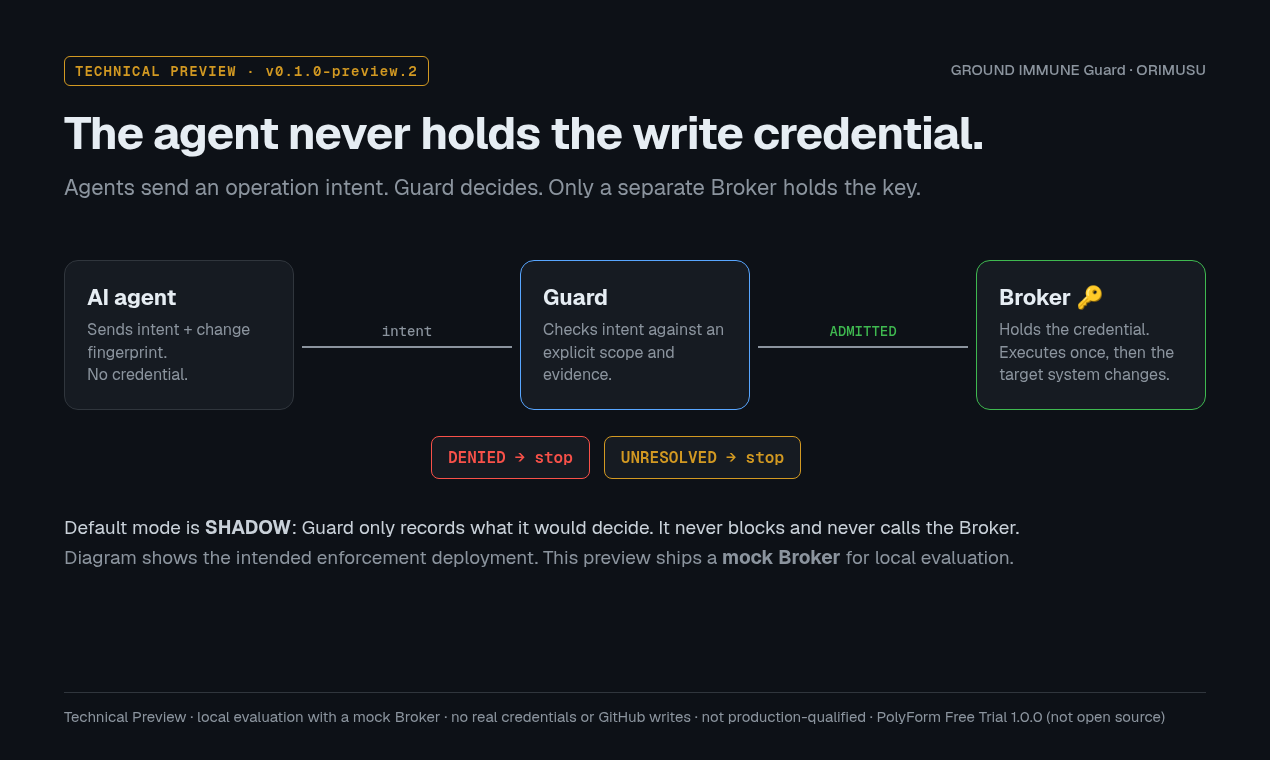
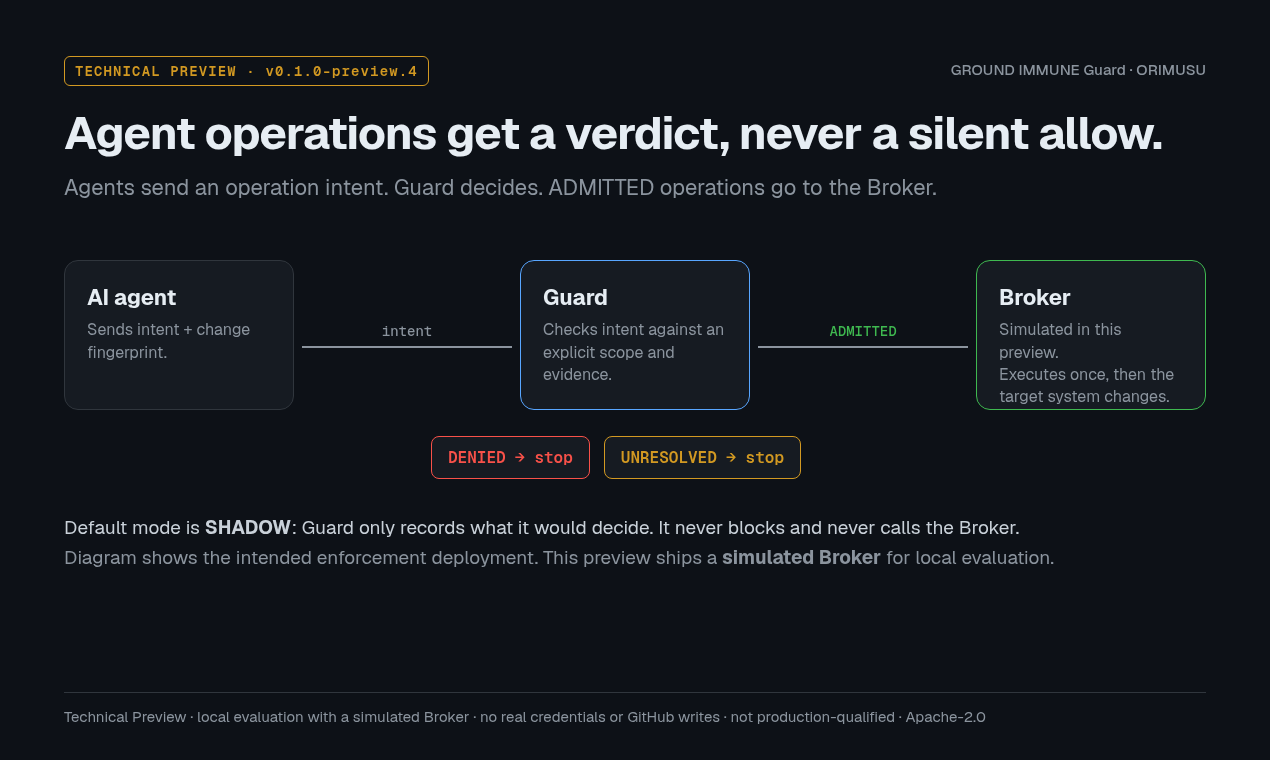
Release v0.1.0-preview.4: fix protect on Windows (directory fsync EPERM)
- README/QUICKSTART: install and SHA-256 check for 0.1.0-preview.4;
  verified on Linux, Windows 11 and macOS (Apple Silicon).
- CHANGELOG: preview.4 entry (Windows evidence-store fix, GUARD_DEBUG=1,
  regression test) and the published preview.3 entry with its known issue.
- release-manifest.json, SHA256SUMS, sbom.json (preview.4 inventory),
  validation-preview.4.json.
- docs: VERSIONING, VERIFICATION; ROADMAP and issue templates.
- docs/assets: architecture diagram and terminal GIF show preview.4.

diff --git a/README.md b/README.md
@@ -18,7 +18,7 @@ Guard checks an agent's proposed operation against an explicit scope and require
 
 In explicitly enabled Limited Blocking, only an **ADMITTED** operation is handed to a separate **Broker**. The agent must not own the write credential or configure its own authority. This preview ships a *simulated* Broker, so it does not demonstrate physical credential isolation.
 
-![Agent sends intent to Guard; only the Broker holds the credential](docs/assets/architecture.png)
+![Agent sends an operation intent to Guard; ADMITTED operations go to the Broker (simulated in this preview)](docs/assets/architecture.png)
 
 ```text
 AI Agent / Automation → operation intent → Guard
@@ -44,7 +44,7 @@ The diagram shows explicitly enabled enforcement. In the default **SHADOW** mode
 - Not a dedicated Broker host, not a credential-provisioning service, and not a real GitHub write executor. No real credentials are used.
 - Not a claim of physical or OS-level credential isolation. In-process binding is not process or OS isolation.
 - **Full IMMUNE is not in this repository.** Recovery, Governance and Adaptive layers of the broader unpublished system are not included, not activated by this preview, and not implied by installing the package.
-- This repository is documentation, examples, packaging scripts and release records. The installable package ships a readable ESM build in `dist/`. The original TypeScript sources used to produce that build are not in this repository.
+- This repository is documentation, examples, packaging scripts and release records. The installable package (release tarball) ships a readable ESM build in `dist/` together with the TypeScript sources of the Guard surface and admission kernel used to build it; those sources are not in this git repository.
 
 > **Technical Preview — read before use.** For local evaluation only. Ships a *simulated* Broker: no Broker host, no real credentials, no real GitHub write executor; not production-qualified. See [Limitations](docs/LIMITATIONS.md).
 
@@ -52,18 +52,20 @@ The diagram shows explicitly enabled enforcement. In the default **SHADOW** mode
 
 ## Try it (no account, no credential, no network after download)
 
-Requires Node.js 22 or later and npm (tested on Node 22.23.4 / npm 10.9.9 and Node 24.22.1 / npm 11.21.1, Linux). Run it in a **new, empty directory**.
+Requires Node.js 22 or later and npm. Verified on Linux (Node 22.23.4 / npm 10.9.9 and Node 24.22.1 / npm 11.21.1), Windows 11 (Node 24.14.0) and macOS (Apple Silicon, macOS 26.6.2, Node 24.15.0 / npm 11.12.1). Run it in a **new, empty directory**.
 
-The commands below are for the forthcoming **0.1.0-preview.3** package (same runtime intent as preview.2, with this repository's Apache-2.0 docs and license). Replace the placeholders before publication.
+The current package is **0.1.0-preview.4** (GitHub prerelease `v0.1.0-preview.4`). If you are on Windows and installed preview.3, upgrade: preview.3 returns `UNRESOLVED` / `GUARD_UNAVAILABLE` for every `guard protect` there (see [Changelog](CHANGELOG.md)).
 
 ```sh
 mkdir guard-try && cd guard-try
 npm init -y >/dev/null    # makes this directory the npm project root (see note below)
-curl -LO https://github.com/ORIMUSU/ground-immune-guard/releases/download/v0.1.0-preview.3/ground-immune-guard-0.1.0-preview.3.tgz
-# Compare with SHA256SUMS / the release notes. macOS: shasum -a 256 …
-echo "8b8e0ce3a546f623be88e69d857402d4c7cc2e68596b51cffd58e021c975067d  ground-immune-guard-0.1.0-preview.3.tgz" | sha256sum -c -
-npm install --offline --ignore-scripts ./ground-immune-guard-0.1.0-preview.3.tgz
+curl -LO https://github.com/ORIMUSU/ground-immune-guard/releases/download/v0.1.0-preview.4/ground-immune-guard-0.1.0-preview.4.tgz
+echo "6bdc758c1059b2e530393e9f9a61706bbb097410ab88afb80adde55668e88168  ground-immune-guard-0.1.0-preview.4.tgz" | sha256sum -c -
+# macOS: same line with "shasum -a 256 -c -" instead of "sha256sum -c -"
+# Windows PowerShell: (Get-FileHash -Algorithm SHA256 .\ground-immune-guard-0.1.0-preview.4.tgz).Hash
+npm install --offline --ignore-scripts ./ground-immune-guard-0.1.0-preview.4.tgz
 
+./node_modules/.bin/guard --version                      # 0.1.0-preview.4
 ./node_modules/.bin/guard init ./blocking --limited      # local simulated Broker, no credential
 ./node_modules/.bin/guard protect ./blocking allowed     # ADMITTED  -> executes once           (exit 0)
 ./node_modules/.bin/guard protect ./blocking allowed     # replay    -> UNRESOLVED / DECISION_REUSED (exit 4)
@@ -72,11 +74,11 @@ npm install --offline --ignore-scripts ./ground-immune-guard-0.1.0-preview.3.tgz
 ./node_modules/.bin/guard verify ./blocking
 ```
 
[1 lines of base64/hex data omitted]
+On Windows, use `.\node_modules\.bin\guard.cmd` instead of `./node_modules/.bin/guard`. If a command fails unexpectedly, run it again with the environment variable `GUARD_DEBUG=1`: the underlying error (`code`, `syscall`, redacted message) is written to stderr; stdout, verdicts and exit codes do not change.
 
 Then try the default observe-only mode: `./node_modules/.bin/guard init ./shadow` and the same `protect` calls against `./shadow` — the decisions are reported with `outcome: OBSERVED`, nothing executes, and every verdict exits 0 (add `--fail-on-verdict` to get 3/4 in SHADOW, e.g. for a CI check). Output formats, `status` and exit codes are explained in [docs/EXPLAIN.md](docs/EXPLAIN.md).
 
-To see post-admission substitution stopped by preview Broker binding, copy `examples/tamper-after-approval.mjs` into the same project and run `node tamper-after-approval.mjs` (LIMITED_BLOCKING only; default SHADOW does not exercise this path).
+To see post-admission substitution stopped by preview Broker binding, run `node node_modules/@ground/immune-guard/examples/tamper-after-approval.mjs` in the same project (LIMITED_BLOCKING only; default SHADOW does not exercise this path).
 
 > **Why `npm init -y`?** Without a `package.json` in the current directory, npm installs into the nearest parent directory that has a `package.json` or `node_modules`. `./node_modules/.bin/guard` is then missing (exit 127). To add Guard to an existing project instead, run the `npm install` line from that project's root.
 
@@ -115,13 +117,13 @@ This Technical Preview is licensed under the **Apache License, Version 2.0**. Se
 - You may use, modify, and redistribute the Work under the terms of Apache-2.0, including for commercial purposes.
 - A patent license is included, subject to the patent-retaliation clause in the License.
 - There is no evaluation-period limit and no "not open source" restriction in this license.
-- This repository does not currently include the original TypeScript sources of the installable package; the package ships readable ESM in `dist/` inside the release tarball. Third-party components remain under their own terms; see `THIRD-PARTY-NOTICES.txt`.
+- This git repository does not include the TypeScript sources of the installable package; the release tarball contains them alongside the readable ESM build in `dist/`. Third-party components remain under their own terms; see `THIRD-PARTY-NOTICES.txt`.
 
 The approved preview distribution route is a public GitHub repository plus a GitHub Release containing the frozen tarball. npm registry publication is not part of this preview. Integrity is published through `SHA256SUMS` and `sbom.json`; the preview is **not cryptographically signed or attested**.
 
 ## What this repository contains
 
-This repository contains reviewed documentation, examples, packaging scripts and community files. Installable tarballs are attached to GitHub Releases (see `https://github.com/ORIMUSU/ground-immune-guard/releases` once published) and their SHA-256 digests are listed in `SHA256SUMS`. It contains no history or source from the private development repository, no private host evidence and no deployment credentials.
+This repository contains reviewed documentation, examples, packaging scripts and community files. Installable tarballs are attached to [GitHub Releases](https://github.com/ORIMUSU/ground-immune-guard/releases) and their SHA-256 digests are listed in `SHA256SUMS`. It contains no history or source from the private development repository, no private host evidence and no deployment credentials.
 
 See [Verification](docs/VERIFICATION.md), [Architecture](docs/ARCHITECTURE.md), [Changelog](CHANGELOG.md), `release-manifest.json`, `SHA256SUMS` and `sbom.json`.
 

diff --git a/CHANGELOG.md b/CHANGELOG.md
@@ -1,17 +1,25 @@
 # Changelog
 
-## Unreleased — 0.1.0-preview.3 (planned)
+## 0.1.0-preview.4 — 2026-11-12 (Technical Preview, GitHub prerelease)
 
-This repository is being prepared as a clean, Apache-2.0 public tree. The installable preview.3 tarball is **not produced in this tree**; it is a separate packaging task. Until preview.3 exists, do not treat the commands in the README as a published download.
[1 lines of base64/hex data omitted]
 
-Intended repository changes (this tree):
+- Windows: fix `guard protect` returning `UNRESOLVED` / `GUARD_UNAVAILABLE` (exit 4) for every operation. After the atomic rename of an evidence record, the file evidence store flushed the evidence directory by opening it and calling `fsync`. Windows cannot flush a directory handle (`EPERM`, or `EISDIR` on open), so every `protect` against a file store failed after the ADMISSION record had already been written; the simulated Broker never ran. On `win32` the directory flush is now skipped when it fails with `EISDIR`/`EPERM`/`EACCES`/`EINVAL`; the rename remains the commit point. Other platforms are unchanged and still fail closed on any directory-flush error. Evidence written by preview.3 on Windows still verifies but holds ADMISSION records without DISPATCH/RESULT; start a fresh `guard init` directory.
+- CLI: `GUARD_DEBUG=1` writes the underlying evidence-store or CLI error (`code`, `syscall`, redacted message) to stderr as a `guard debug:` line. Paths are redacted. stdout, verdicts and exit codes are unchanged; without the variable nothing extra is printed.
+- Regression test: `packaging/test-windows-evidence.mjs` (in the tarball) simulates the Windows directory-handle errors, checks the README sequence (exit codes 0/4/3/4, `verify` `count: 5`, SHADOW `OBSERVED`) and checks that non-Windows platforms still fail closed.
+- Verified with these exact tarball bytes on Linux x86_64 (Node 22.23.4 and 24.22.1), Windows 11 (Node 24.14.0) and macOS 26.6.2 on Apple Silicon (Node 24.15.0): SHA-256 match, `guard --version` 0.1.0-preview.4, README CLI exits 0/4/3/4, `verify` count 5, SHADOW `OBSERVED`, regression test all checks passed, both examples matched. See `validation-preview.4.json`.
+- Public API, decisions, other platforms' behaviour and examples are otherwise unchanged from preview.3.
+- Known cosmetic leftovers inside the tarball (not runtime): the bundled terminal GIF and architecture badge still show preview.3, and the bundled `CHANGELOG.md` / `RELEASE-NOTES.md` / `README.md` were frozen before publication and describe this version as a local candidate. The repository copies of the GIF and diagram show preview.4.
 
-- License for repository materials: Apache License 2.0 (see LICENSE and NOTICE).
-- Community files: CONTRIBUTING.md (Discussions/Issues first, DCO), CODE_OF_CONDUCT.md, SECURITY.md, issue and pull-request templates, ROADMAP.md.
-- Documentation: "What this is / is not", Apache-2.0 wording, and a local example of post-admission substitution (`examples/tamper-after-approval.mjs`) that exercises preview Broker binding.
-- History: a new public git history. Author and committer use a GitHub noreply address.
+## 0.1.0-preview.3 — 2026-11-11 (Technical Preview, GitHub prerelease)
 
[2 lines of base64/hex data omitted]
+
+- License: Apache-2.0 (copyright ORIMUSU Inc.) with NOTICE. preview.1 and preview.2 artifacts stay under the PolyForm Free Trial terms they shipped with.
+- The tarball includes the TypeScript source of the Guard public surface and the admission kernel; `npm run build` reproduces `dist/`. `dist/` is not byte-identical to preview.2 (comment and license-banner changes); the public API and example/quickstart behaviour are unchanged.
+- New example `examples/tamper-after-approval.mjs`: a post-admission substitution yields `UNRESOLVED` / `TARGET_CHANGED` and does not execute (LIMITED_BLOCKING only).
+- Breaking, kernel evidence protocol: the compatibility token changed; envelopes created with the preview.2 token return `UNSUPPORTED_PROTOCOL`. Guard `guard-v0.1` journals are unaffected.
+- Repository: new public git history (author and committer use a GitHub noreply address), community files, Apache-2.0 docs.
 
 ## 0.1.0-preview.2 — 2026-11-10 (Technical Preview, GitHub prerelease)
 

diff --git a/docs/VERSIONING.md b/docs/VERSIONING.md
@@ -1,9 +1,9 @@
 # Independent version identities
 
-Product/package: **0.1.0-preview.2** is the last frozen, published runtime (GitHub prerelease, 2026-11-10; repacked from 0.1.0-preview.1 with a CLI exit-code change and refreshed docs/metadata). A **0.1.0-preview.3** package is planned so that the installable tarball can carry this repository's Apache-2.0 documentation and license; its SHA-256 is not yet assigned. A Technical Preview is not a stable compatibility guarantee. Pin the exact version.
+Product/package: **0.1.0-preview.4** is the current published runtime (GitHub prerelease `v0.1.0-preview.4`, 2026-11-12; Apache-2.0; fixes `guard protect` on Windows). 0.1.0-preview.3 (2026-11-11) was the first Apache-2.0 tarball. 0.1.0-preview.2 (2026-11-10) and 0.1.0-preview.1 remain under the PolyForm Free Trial terms they shipped with. A Technical Preview is not a stable compatibility guarantee. Pin the exact version.
 
 Guard evidence protocol: **guard-v0.1**. Product changes do not authorize rewriting existing evidence. Unsupported formats fail unresolved; never reset history to accept them.
 
 Advanced IMMUNE evidence/schema identities remain owned by the separate protocols of Full IMMUNE, the broader unpublished system, which is not in this repository. Guard neither redefines their versions nor automatically migrates their journals. The legacy compatibility adapter maps operation fields only. Follow that module's explicit compatibility rules before importing advanced evidence.
 
-The package keeps `"private": true` so it cannot be published to the npm registry by accident. 0.1.0-preview.2 used `license: "SEE LICENSE IN LICENSE"` with PolyForm Free Trial 1.0.0 in that tarball. 0.1.0-preview.1 still carries the earlier `UNLICENSED` placeholder in its package metadata; the license text shipped with that release governs that artifact historically. A new preview that changes the license should set the package `license` field to `Apache-2.0` and ship the Apache-2.0 text as `LICENSE`. Any licensing or contact change produces a new immutable preview version.
+The package keeps `"private": true` so it cannot be published to the npm registry by accident. 0.1.0-preview.2 used `license: "SEE LICENSE IN LICENSE"` with PolyForm Free Trial 1.0.0 in that tarball. 0.1.0-preview.1 still carries the earlier `UNLICENSED` placeholder in its package metadata; the license text shipped with that release governs that artifact historically. From 0.1.0-preview.3 the package `license` field is `Apache-2.0` and the Apache-2.0 text ships as `LICENSE`. Any licensing or contact change produces a new immutable preview version.

diff --git a/QUICKSTART.md b/QUICKSTART.md
@@ -1,15 +1,15 @@
 # First operation: JavaScript and TypeScript
 
-Use a **new, empty directory** with Node.js >=22 and npm. Download `ground-immune-guard-0.1.0-preview.3.tgz` from the GitHub release at `https://github.com/ORIMUSU/ground-immune-guard` (tag `v0.1.0-preview.3`, once published) and check its SHA-256 against `SHA256SUMS`. There is no registry download or real credential setup in this guide.
[1 lines of base64/hex data omitted]
 
[1 lines of base64/hex data omitted]
+On Windows, use preview.4 or later (preview.3 returns `GUARD_UNAVAILABLE` for every `protect` there) and run `.\node_modules\.bin\guard.cmd` in place of `./node_modules/.bin/guard`. Set `GUARD_DEBUG=1` to print the underlying error of an unexpected failure to stderr.
 
 `npm init -y` is required: without a `package.json` in the current directory, npm installs into the nearest parent directory that has a `package.json` or `node_modules`, and `./node_modules/.bin/guard` is then missing. To use an existing project instead, run `npm install` from that project's root.
 
 ```sh
 mkdir guard-quickstart && cd guard-quickstart
 npm init -y
-npm install --offline --ignore-scripts /path/to/ground-immune-guard-0.1.0-preview.3.tgz
+npm install --offline --ignore-scripts /path/to/ground-immune-guard-0.1.0-preview.4.tgz
 ./node_modules/.bin/guard init ./shadow
 ./node_modules/.bin/guard doctor ./shadow
 ./node_modules/.bin/guard protect ./shadow allowed

diff --git a/ROADMAP.md b/ROADMAP.md
@@ -6,7 +6,7 @@ GROUND IMMUNE Guard is a **Technical Preview**. It ships a **simulated Broker**.
 
 ## In this repository
 
-Facts about what you can read and run today (or, for preview.3, once that package is published):
+Facts about what you can read and run today (current package: 0.1.0-preview.4):
 
 - Documentation, examples, packaging scripts, and community files for GROUND IMMUNE Guard.
 - A three-valued verdict: ADMITTED, DENIED, UNRESOLVED. Missing evidence is not treated as allow.
@@ -22,14 +22,13 @@ Facts about what you can read and run today (or, for preview.3, once that packag
 - Full IMMUNE, including its Recovery, Governance and Adaptive layers.
 - A dedicated Broker host, credential provisioning, or a real GitHub write executor.
 - Physical or OS-level credential isolation, cryptographic signing of releases, or an npm registry package.
-- The original TypeScript sources used to produce the installable `dist/` build.
+- The TypeScript sources used to produce the installable `dist/` build (they ship inside the release tarball, not in this git repository).
 - Production certification, a support SLA, or a promise of API stability.
 
 ## Directions under consideration
 
 These are topics the maintainer wants to explore. None of them is scheduled:
 
-- A new preview tarball (0.1.0-preview.3) that carries this repository's Apache-2.0 documentation and license while keeping the reviewed runtime unless a later change is explicitly described.
 - Publishing more of the source that produces `dist/`, if that can be done without pulling unpublished Full IMMUNE code into this tree.
 - Additional local examples, including the post-admission substitution example already in `examples/`.
 - Signing or attestation for release artifacts.

diff --git a/docs/VERIFICATION.md b/docs/VERIFICATION.md
@@ -8,4 +8,4 @@ This evidence does not demonstrate a real GitHub App credential-gated write, ded
 
 Validation records are kept per release: `validation-preview.1.json` (0.1.0-preview.1: reproducible build, offline and network-denied consumers, exposure scan) and `validation-preview.2.json` (0.1.0-preview.2: consumer quickstart on Node 22 and 24). For preview.1, reproducibility uses two clean source archives with the same installed locked build tools, not independently provisioned machines. The SBOM is the project's custom inventory format, not an SPDX/CycloneDX claim or vulnerability assessment. Secret screening is pattern-based with positive canaries and an allowlisted export; it cannot prove the absence of every secret.
 
-A forthcoming 0.1.0-preview.3 package, if published, should add its own validation record. This file will then name that record. The original TypeScript sources used to produce `dist/` are not in this repository.
[1 lines of base64/hex data omitted]
